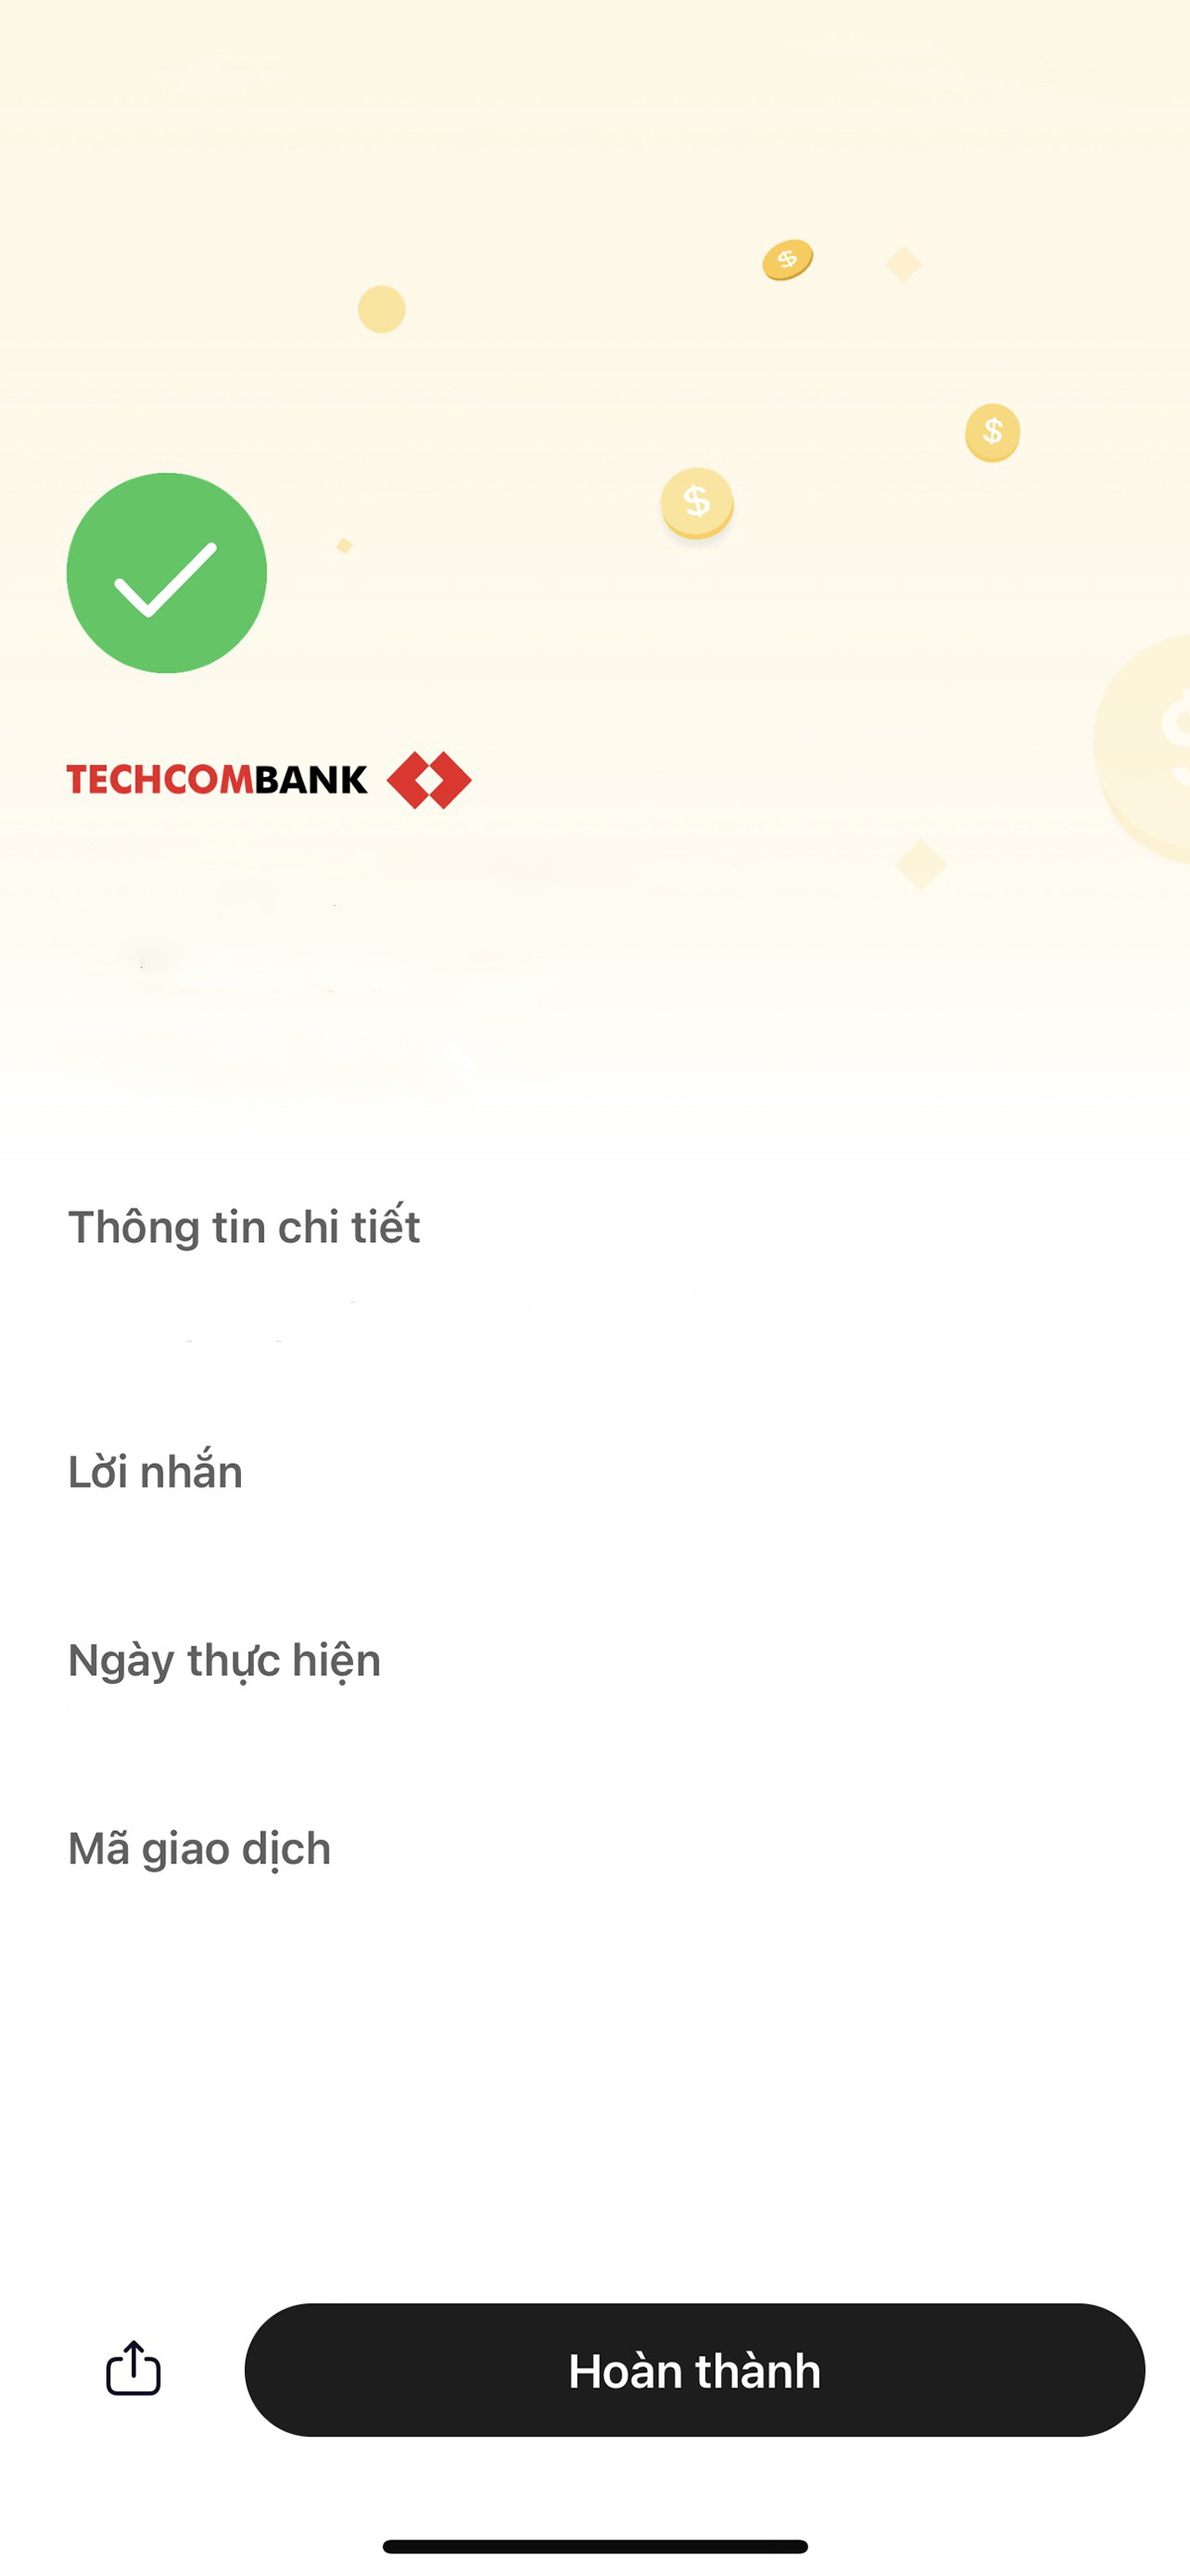
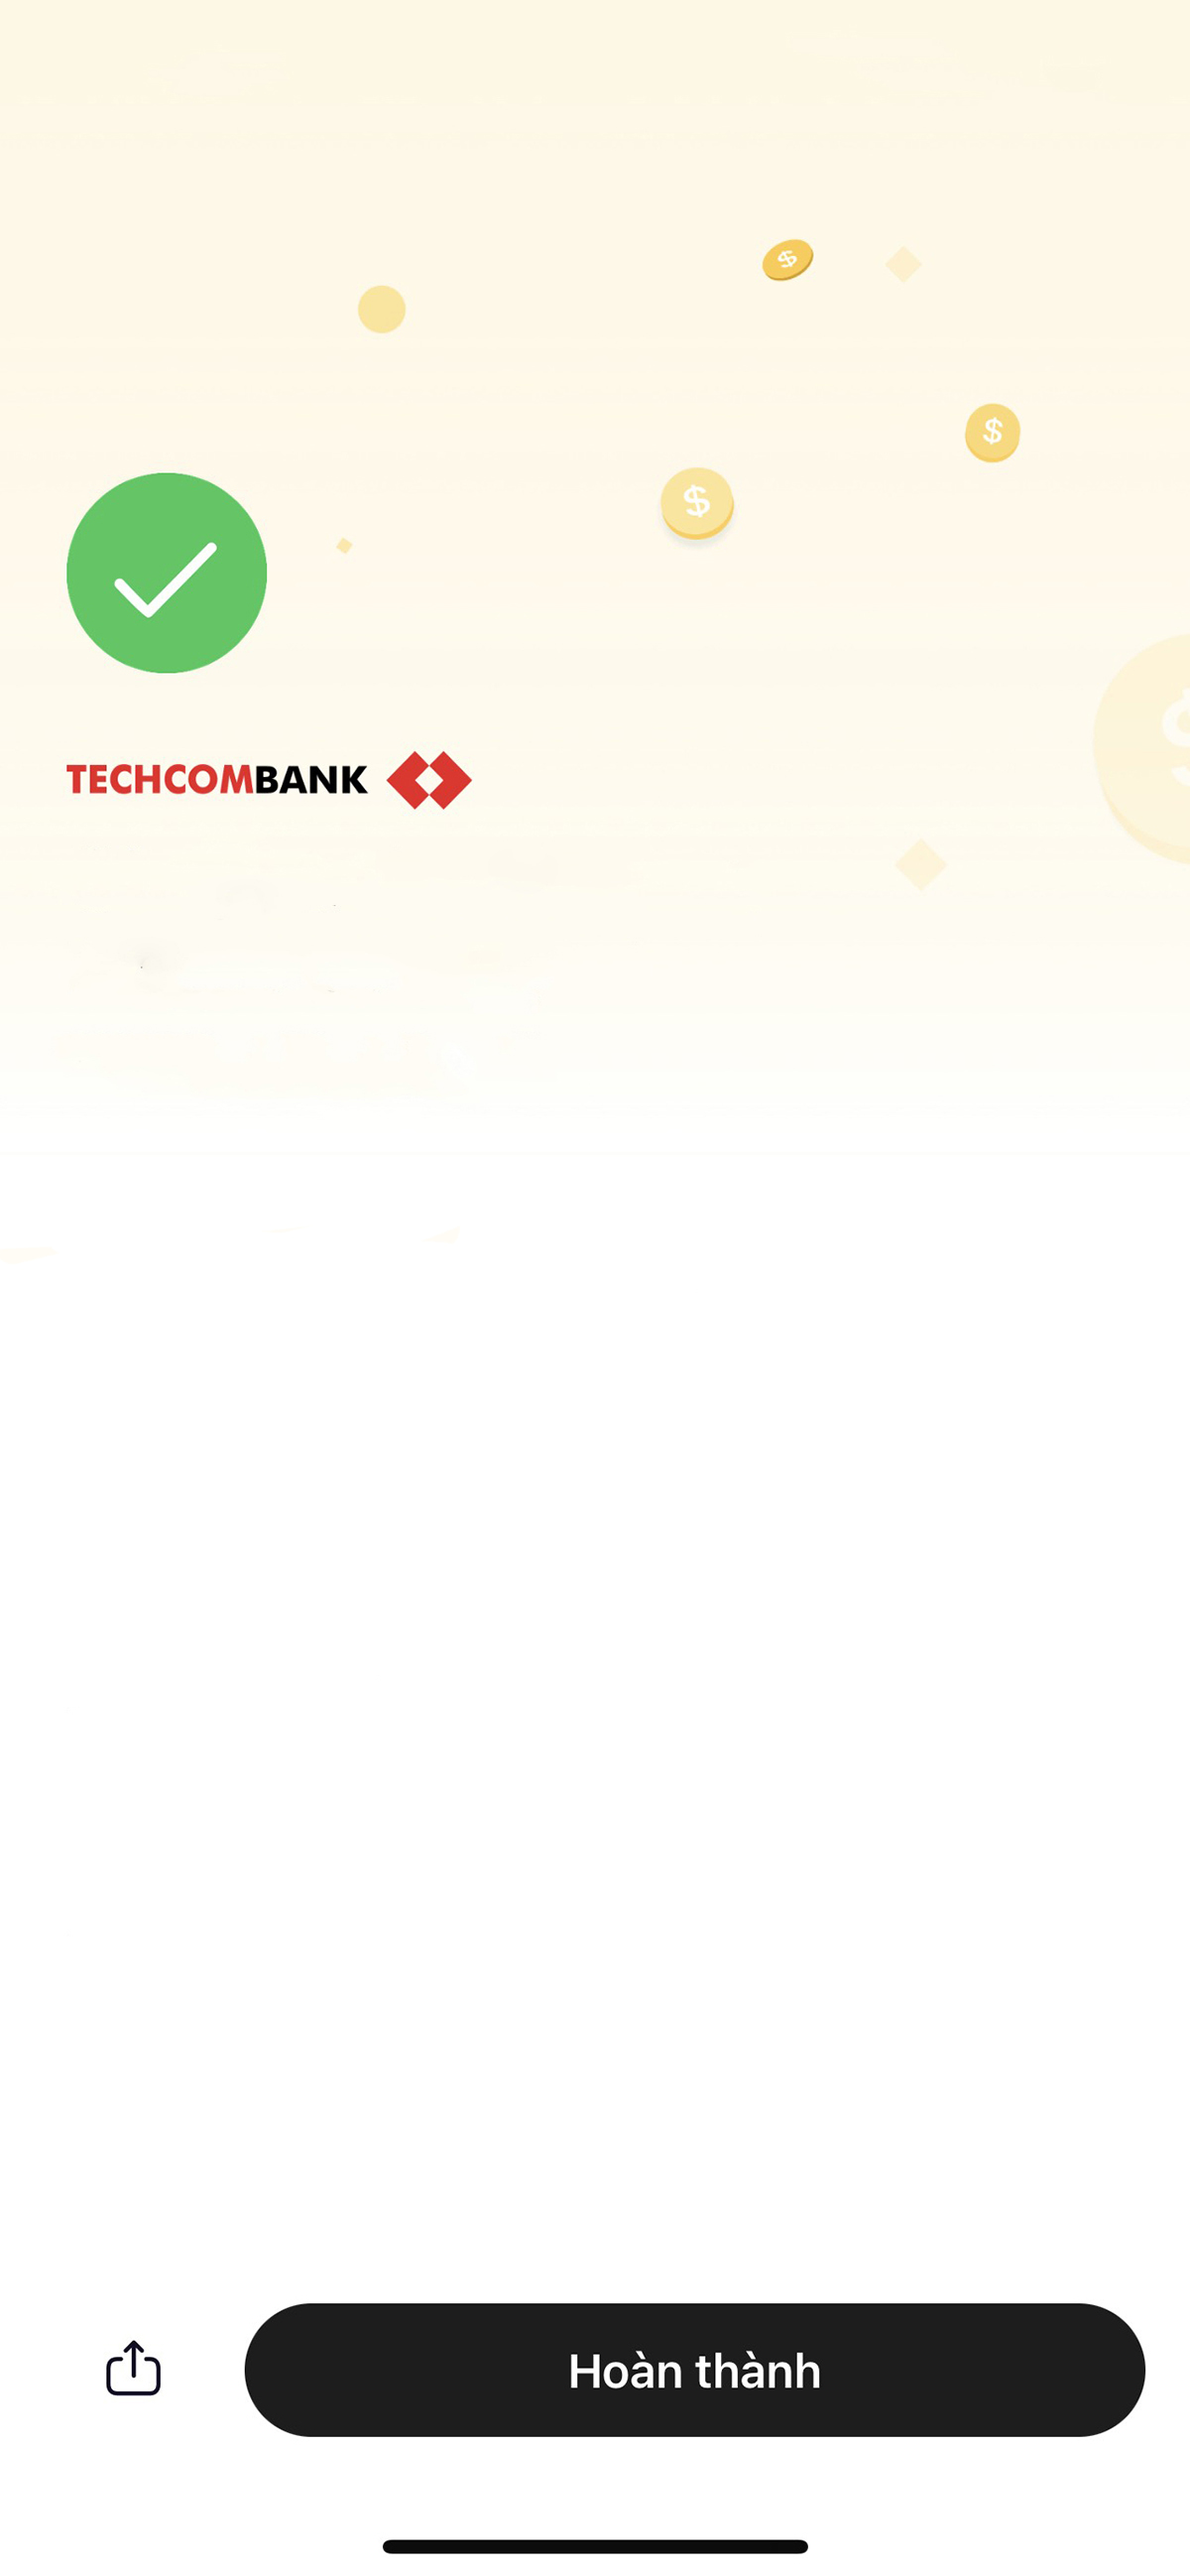
commit

diff --git a/components/invoices/Tech.vue b/components/invoices/Tech.vue
@@ -6,21 +6,65 @@
       {{ money }}
     </div>
 
-    <div class="_item _time">
-      {{ $dayjs().format('D MMMM, YYYY') }}
+    <div class="_body">
+      <div class="_doc">
+        <div class="_label">
+          Thông tin chi tiết
+        </div>
+
+        <div class="_content _bank">
+          {{ value.bank }}
+          <br>
+          {{ account }}
+        </div>
+      </div>
+
+      <div class="_doc">
+        <div class="_label">
+          Lời nhắn
+        </div>
+
+        <div class="_content _bank">
+          {{ value.content }}
+        </div>
+      </div>
+
+      <div class="_doc">
+        <div class="_label">
+          Ngày thực hiện
+        </div>
+
+        <div class="_content _bank">
+          {{ $dayjs().format('D MMMM, YYYY') }}
+        </div>
+      </div>
+
+      <div class="_doc">
+        <div class="_label">
+          Mã giao dịch
+        </div>
+
+        <div class="_content _bank">
+          {{ value.code }}
+        </div>
+      </div>
     </div>
 
-    <div class="_item _content">
-      {{ value.content }}
-    </div>
+    <!--    <div class="_item _time">-->
+    <!--      {{ $dayjs().format('D MMMM, YYYY') }}-->
+    <!--    </div>-->
 
-    <div class="_item _bank">
-      {{ bank }}
-    </div>
+    <!--    <div class="_item _content">-->
+    <!--      {{ value.content }}-->
+    <!--    </div>-->
 
-    <div class="_item _code">
-      {{ value.code }}
-    </div>
+    <!--    <div class="_item _bank">-->
+    <!--      {{ bank }}-->
+    <!--    </div>-->
+
+    <!--    <div class="_item _code">-->
+    <!--      {{ value.code }}-->
+    <!--    </div>-->
   </div>
 </template>
 
@@ -33,8 +77,8 @@ const props = defineProps<{
 
 const money = computed(() => 'VND ' + useMoneyFormat(Number(props.value.amount || 0)))
 const name = computed(() => 'Chuyển thành công' + '\n tới ' + String(props.value.name).toUpperCase())
-const bank = computed(() =>
-  props.value.bank + '\n' + String(props.value.account).replace(/(\d{4})/g, '$1 ')
+const account = computed(() =>
+  String(props.value.account).replace(/(\d{4})/g, '$1 ')
 )
 
 </script>
@@ -58,16 +102,24 @@ const bank = computed(() =>
   line-height: 22px;
 }
 
-._time {
-  top: 400px;
+._body {
+  left: 15px;
+  right: 15px;
+  position: absolute;
+  height: 240px;
+  top: 282px;
+  line-height: normal;
+  font-weight: 600;
+  font-size: 10px;
+  color: black;
 }
-._content {
-  top: 355px
+
+._label {
+  color: #555554;
+  margin-bottom: 5px;
 }
-._bank {
-  top: 298px;
-}
-._code {
-  top: 444px;
+
+._doc + ._doc {
+  margin-top: 15px;
 }
 </style>

diff --git a/pages/invoices/index.vue b/pages/invoices/index.vue
@@ -111,12 +111,12 @@ import banksData from 'assets/json/banks.json'
 import { IPhoneStatus } from '~/entities/status.entities'
 
 const form = reactive<InvoiceEntity>({
-  amount: '',
-  account: '',
-  name: '',
-  code: '',
-  content: '',
-  bank: '',
+  amount: '100000',
+  account: '123456789',
+  name: 'Tran van Nho',
+  code: 'UY3534N53454',
+  content: 'Chuyen Khoan',
+  bank: 'Ngân hàng Nông nghiệp và Phát triển Nông thôn Việt Nam',
   sender: '',
   senderAccount: ''
 })
